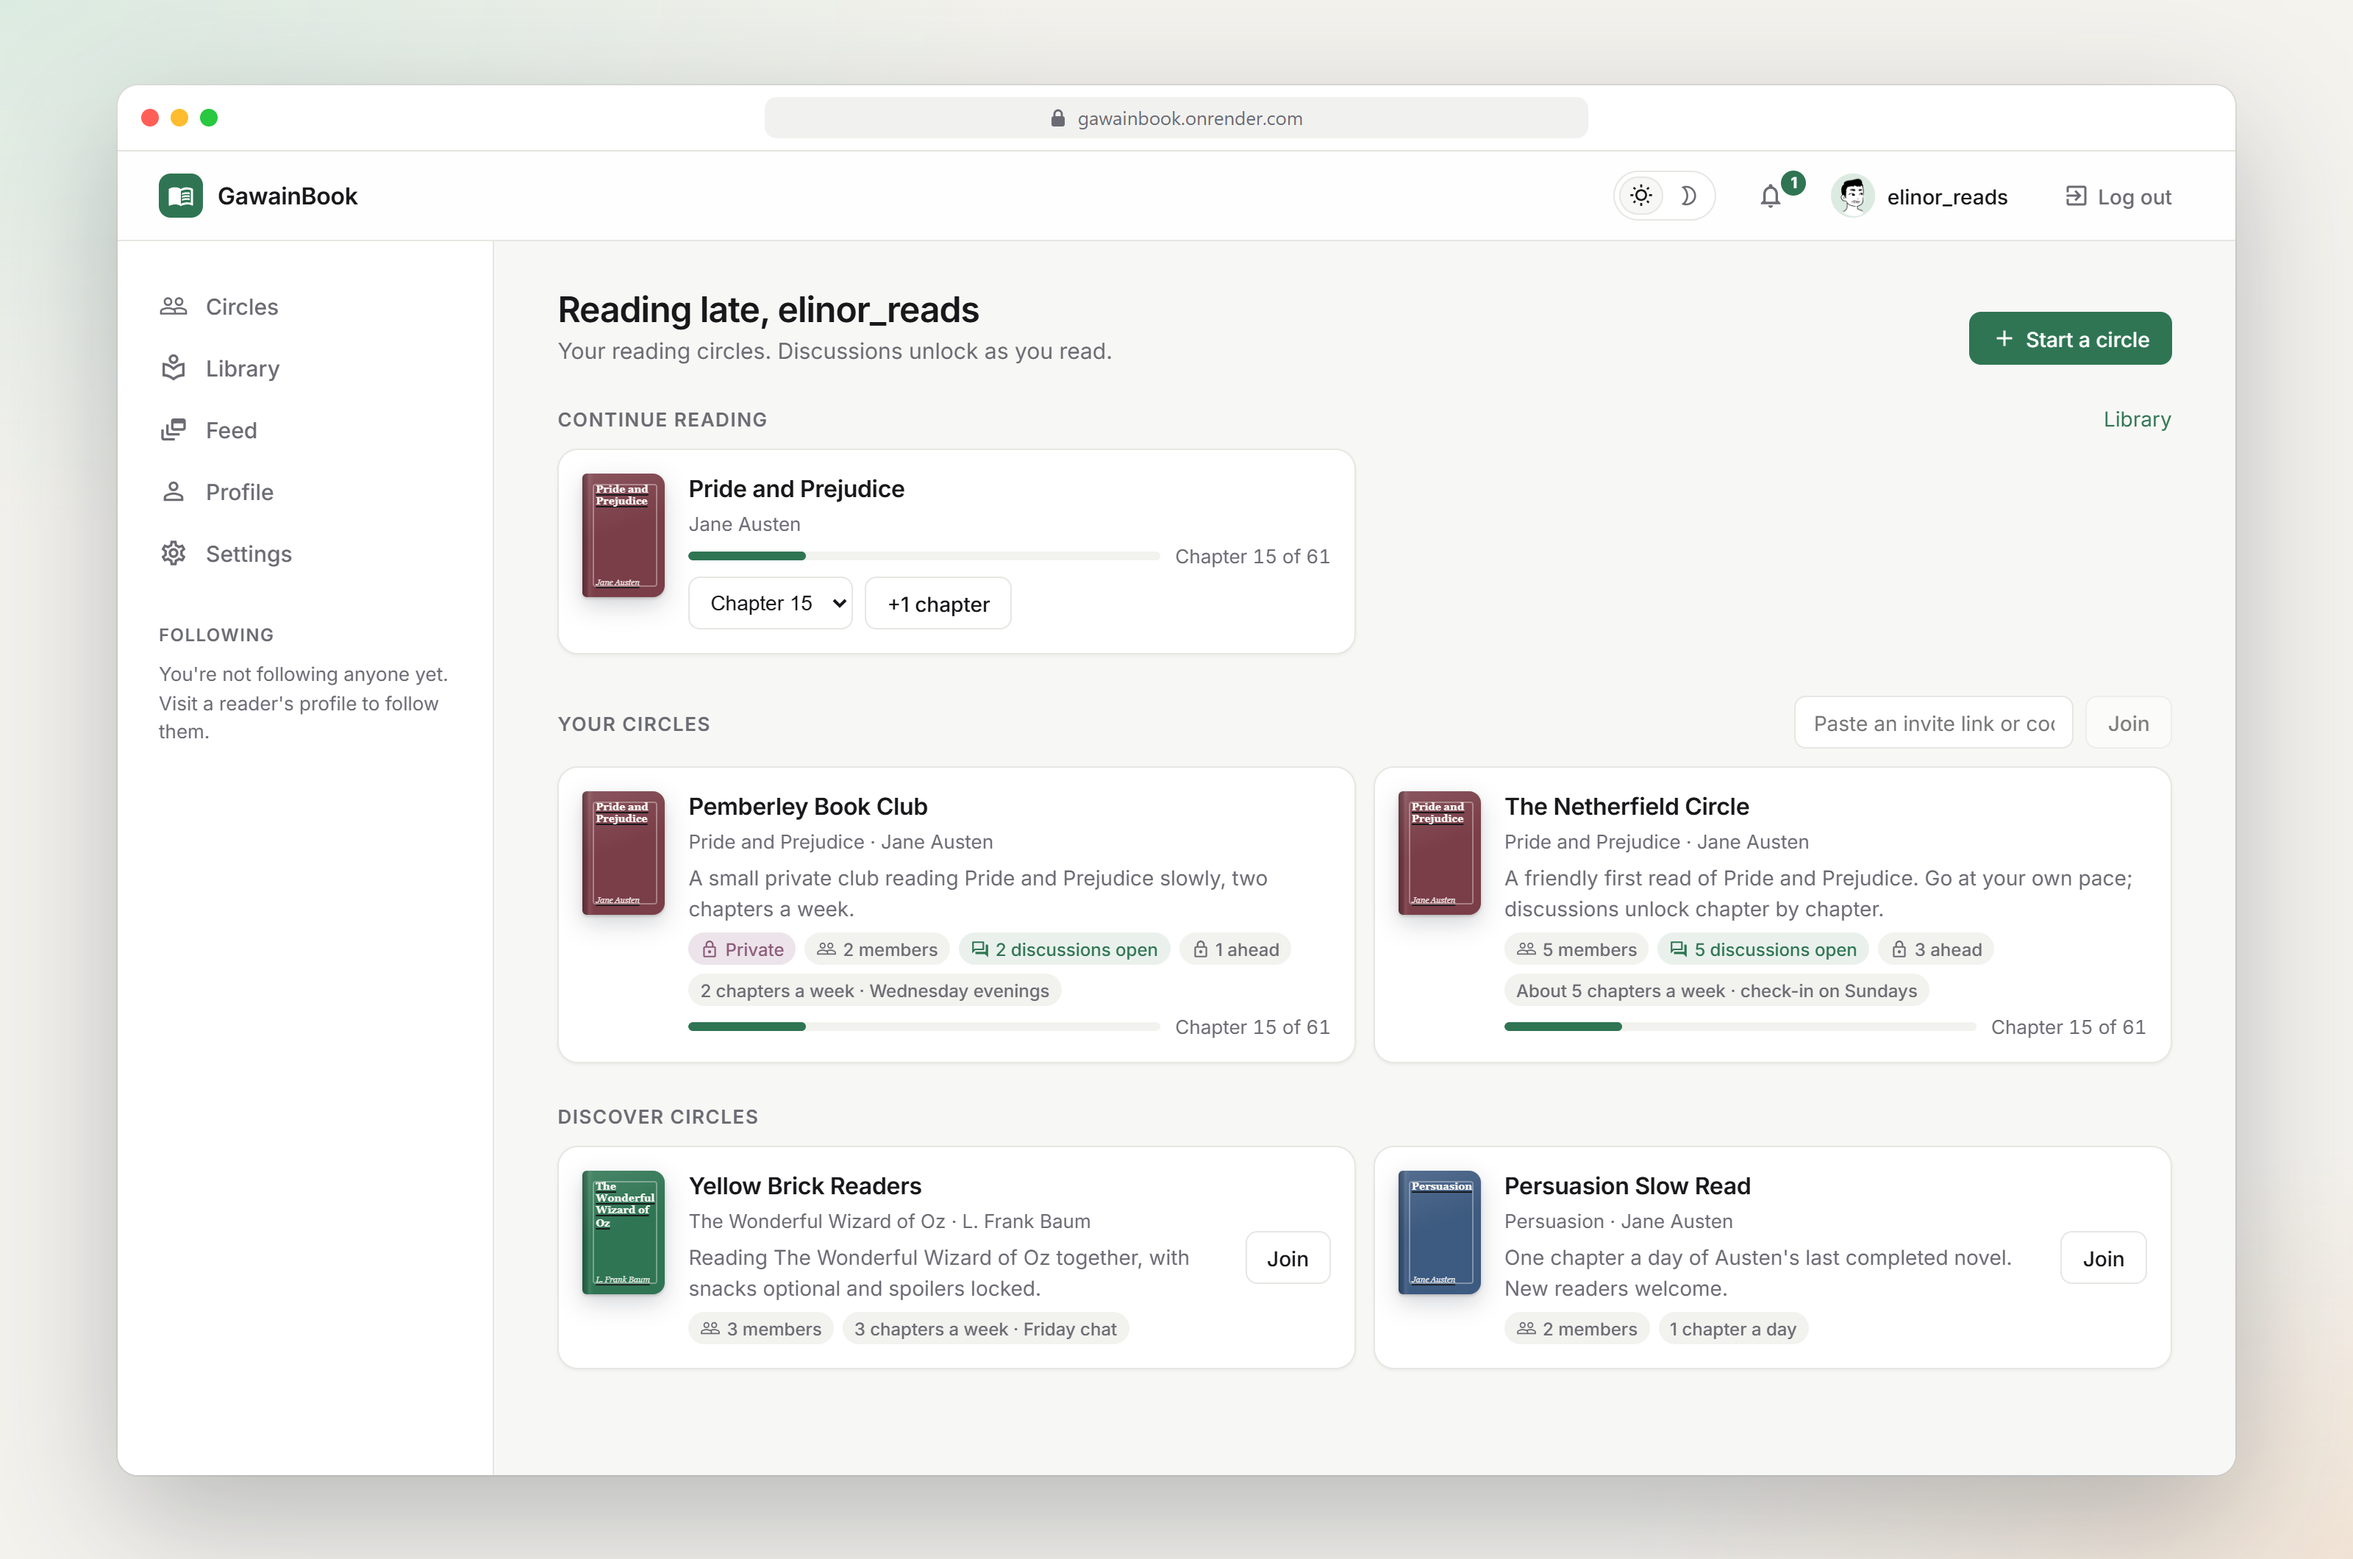
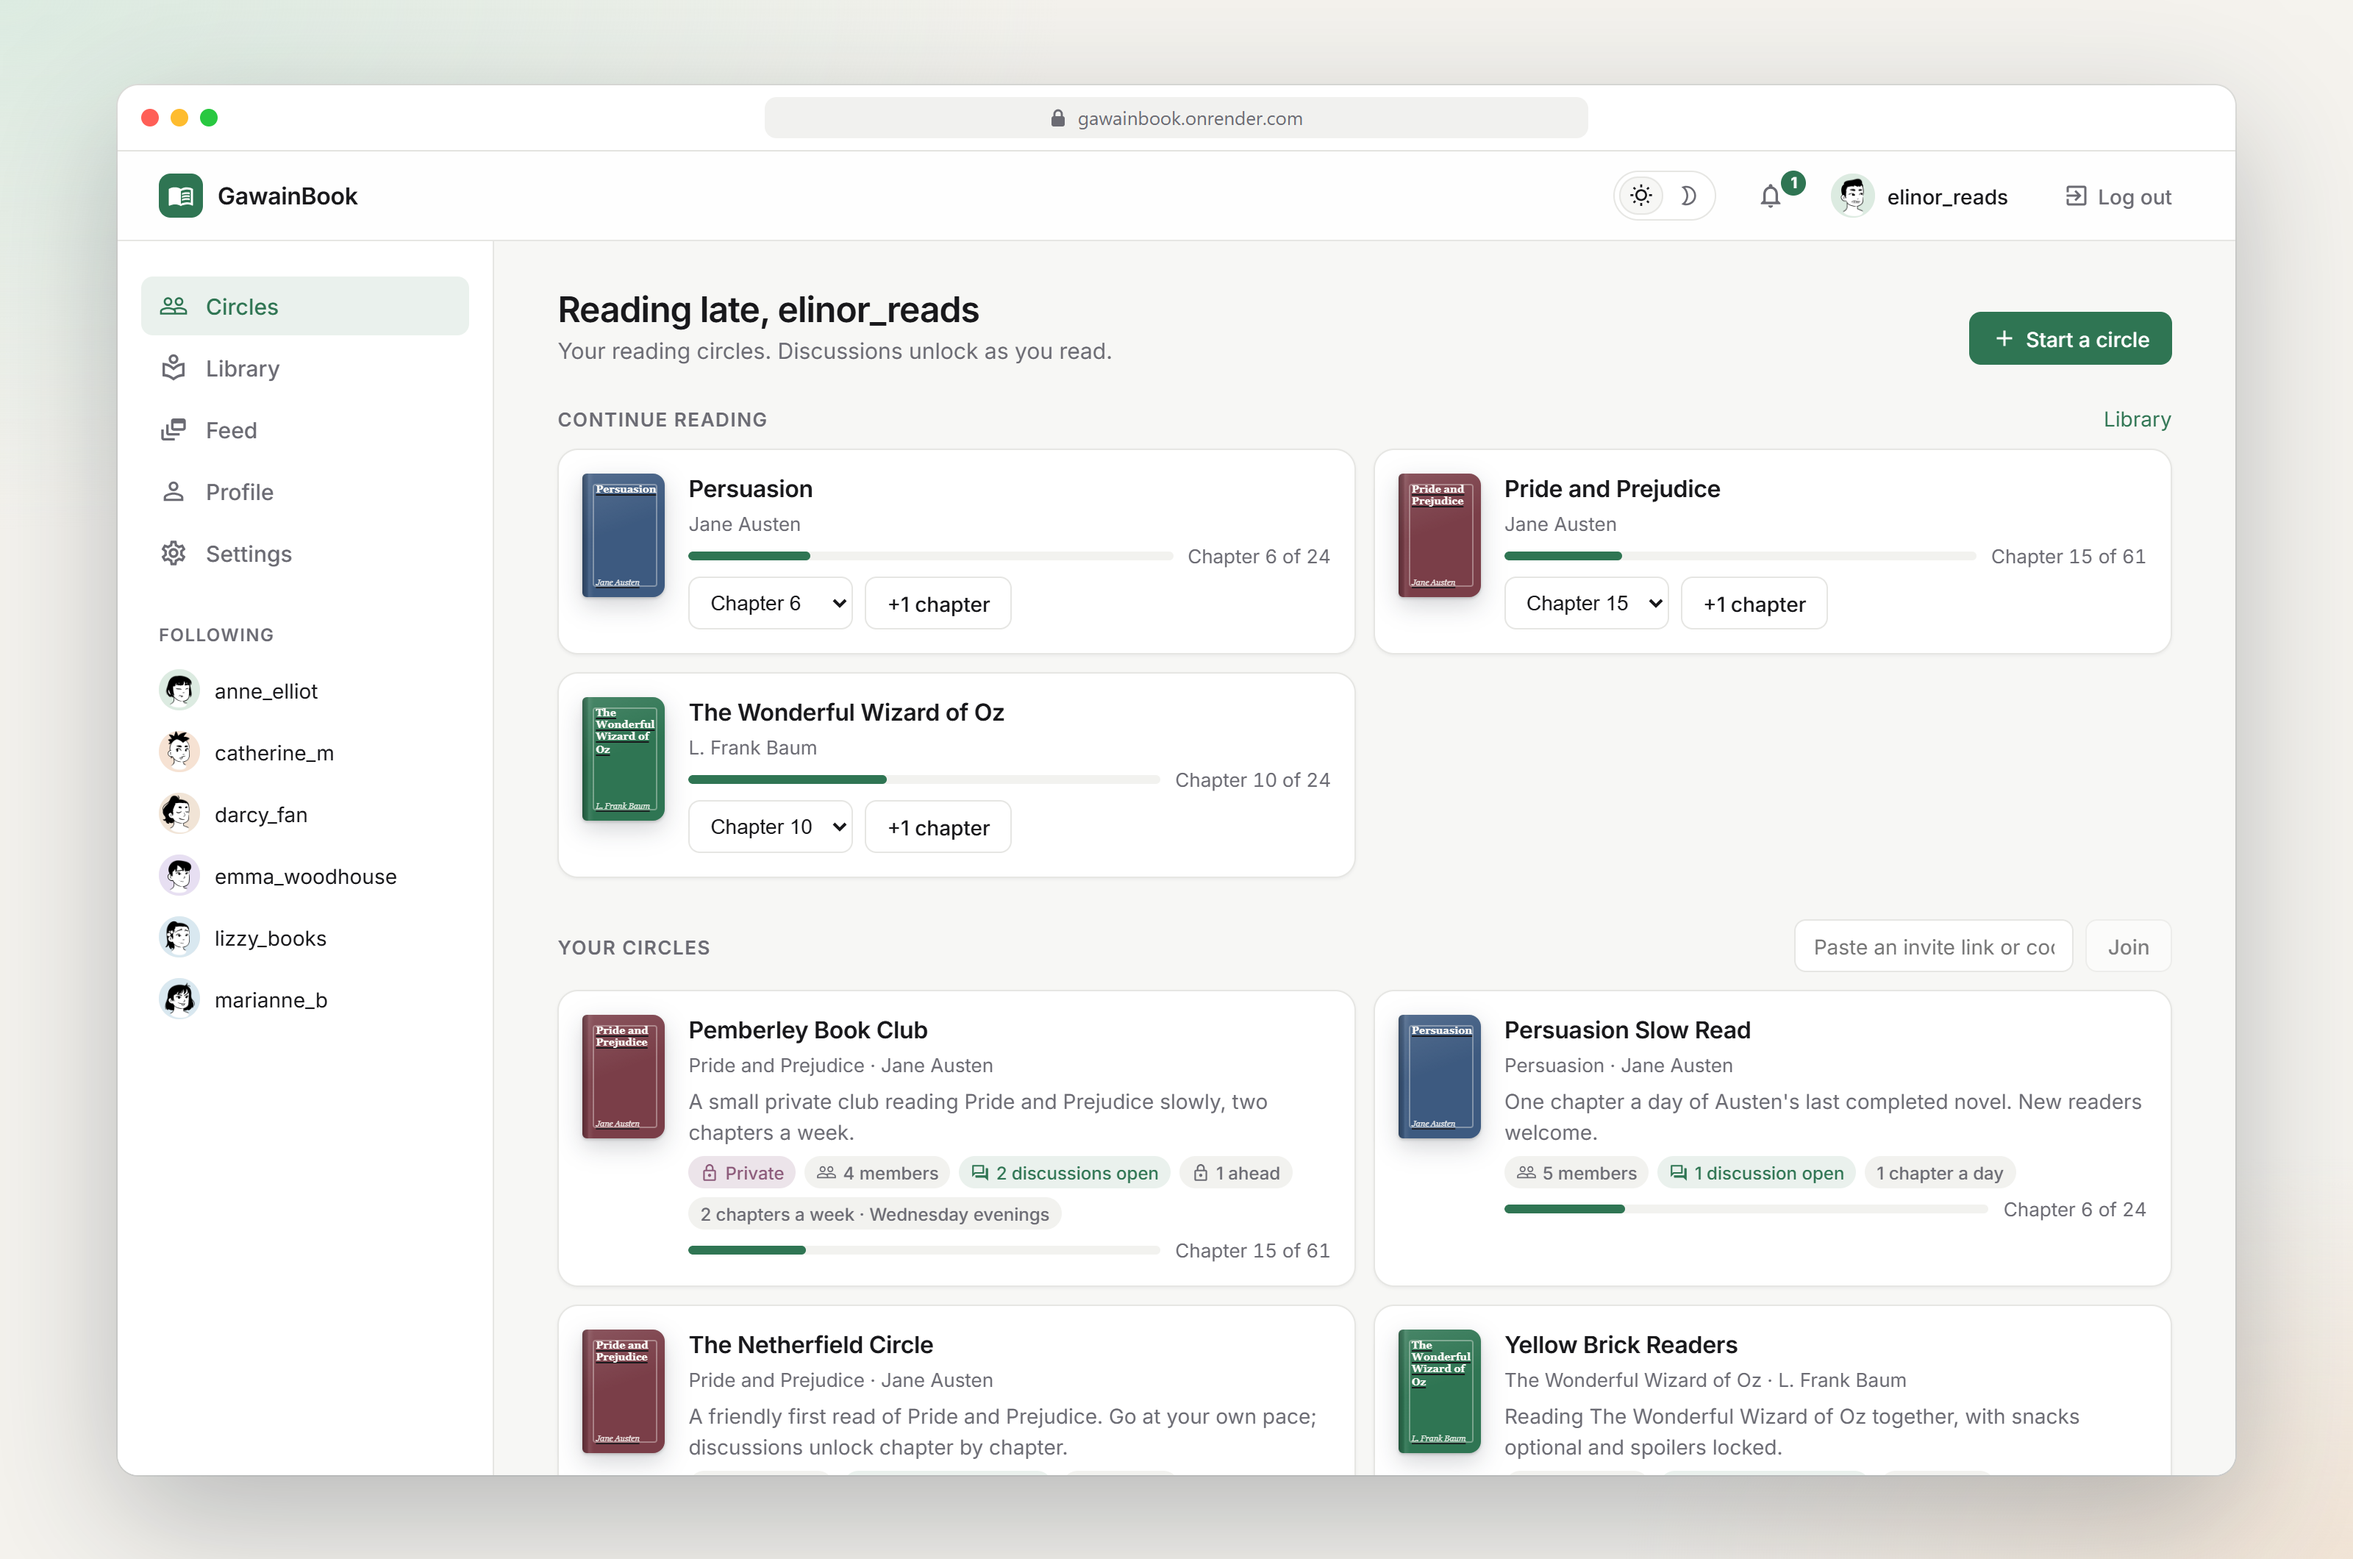
README: all screenshots retaken from the busiest demo account

diff --git a/Node-Rest-API/src/seed/data.ts b/Node-Rest-API/src/seed/data.ts
@@ -92,7 +92,7 @@ export interface SeedUser {
 }
 
 export const SAMPLE_USERS: SeedUser[] = [
-  { username: "elinor_reads", photo: "person/sample-elinor_reads.png", city: "Bath", profile: { genres: ["Classics", "Romance", "Historical fiction"], language: "en", pace: 5 }, reading: { "pride-and-prejudice": ["reading", 15], "the-wonderful-wizard-of-oz": ["want", 0] } },
+  { username: "elinor_reads", photo: "person/sample-elinor_reads.png", city: "Bath", profile: { genres: ["Classics", "Romance", "Historical fiction"], language: "en", pace: 5 }, reading: { "pride-and-prejudice": ["reading", 15], "the-wonderful-wizard-of-oz": ["reading", 10], "persuasion": ["reading", 6] } },
   { username: "darcy_fan", photo: "person/sample-darcy_fan.png", city: "Derbyshire", profile: { genres: ["Classics", "Romance"], language: "en", pace: 10 }, reading: { "pride-and-prejudice": ["finished", 61], "the-wonderful-wizard-of-oz": ["finished", 24] } },
   { username: "marianne_b", photo: "person/sample-marianne_b.png", city: "Devon", profile: { genres: ["Romance", "Poetry", "Classics"], language: "en", pace: 2 }, reading: { "pride-and-prejudice": ["reading", 3] } },
   { username: "lizzy_books", photo: "person/sample-lizzy_books.png", city: "Hertfordshire", profile: { genres: ["Romance", "Romantasy", "Classics"], language: "en", pace: 6 }, reading: { "pride-and-prejudice": ["reading", 22], "persuasion": ["want", 0] } },
@@ -275,7 +275,7 @@ export const CIRCLES: SeedCircle[] = [
     visibility: "public",
     schedule: "3 chapters a week · Friday chat",
     owner: "tinwoodsman",
-    members: ["dorothy_g", "darcy_fan", "scarecrow_thinks", "ozma_reads"],
+    members: ["dorothy_g", "darcy_fan", "scarecrow_thinks", "ozma_reads", "elinor_reads"],
     includeRealMembers: true,
     threads: [
       {
@@ -347,7 +347,7 @@ export const CIRCLES: SeedCircle[] = [
     visibility: "public",
     schedule: "1 chapter a day",
     owner: "anne_elliot",
-    members: ["lizzy_books", "wentworth_w", "emma_woodhouse"],
+    members: ["lizzy_books", "wentworth_w", "emma_woodhouse", "elinor_reads"],
     includeRealMembers: false,
     threads: [
       {
@@ -450,6 +450,23 @@ export const POSTS: SeedPost[] = [
     hoursAgo: 5,
     likes: ["elinor_reads", "lizzy_books", "anne_elliot", "catherine_m", "darcy_fan", "marianne_b"],
     comments: [{ author: "elinor_reads", body: "Adding this to our circle right now." }],
+  },
+  {
+    author: "elinor_reads",
+    desc: "Our circle's favourite habit: everyone posts the line they underlined twice. Chapter 10 winner so far: 'I am perfectly convinced by it that Mr. Darcy has no defect.' 😄",
+    hoursAgo: 30,
+    likes: ["darcy_fan", "lizzy_books", "emma_woodhouse", "marianne_b", "catherine_m"],
+    comments: [
+      { author: "darcy_fan", body: "Bold of you to quote that one at me." },
+      { author: "lizzy_books", body: "Underlined three times, actually." },
+    ],
+  },
+  {
+    author: "elinor_reads",
+    desc: "Joined the Persuasion Slow Read too. One chapter a day feels like the right pace for Anne. 🌊",
+    hoursAgo: 8,
+    likes: ["anne_elliot", "wentworth_w", "emma_woodhouse"],
+    comments: [{ author: "anne_elliot", body: "So glad you're here!" }],
   },
   {
     author: "marianne_b",
